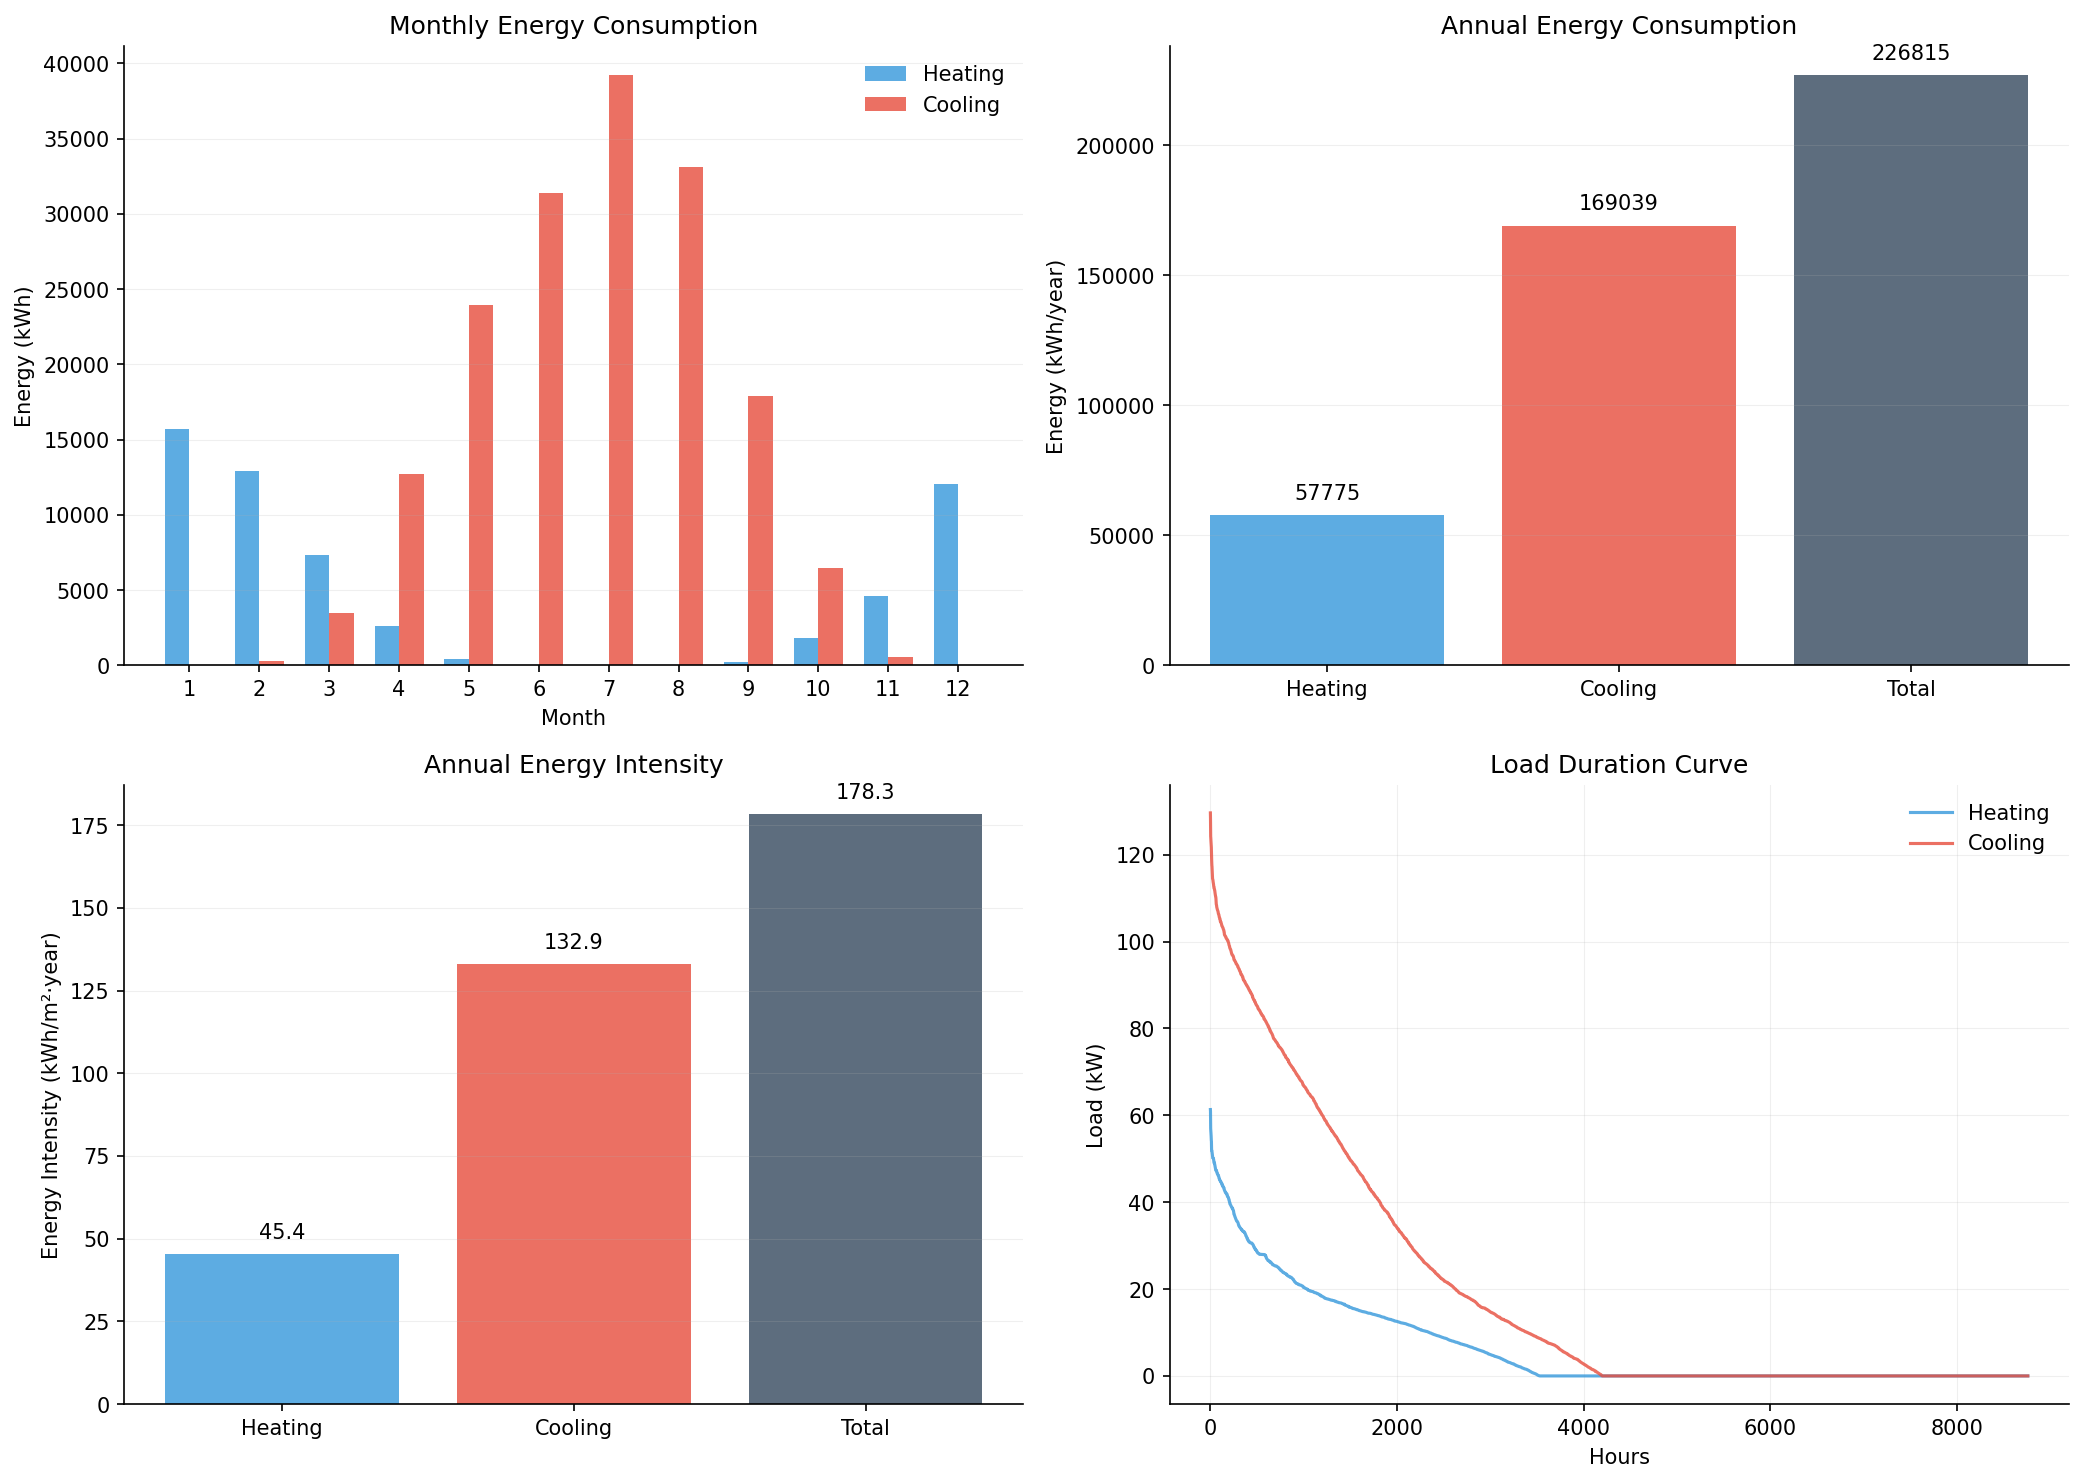
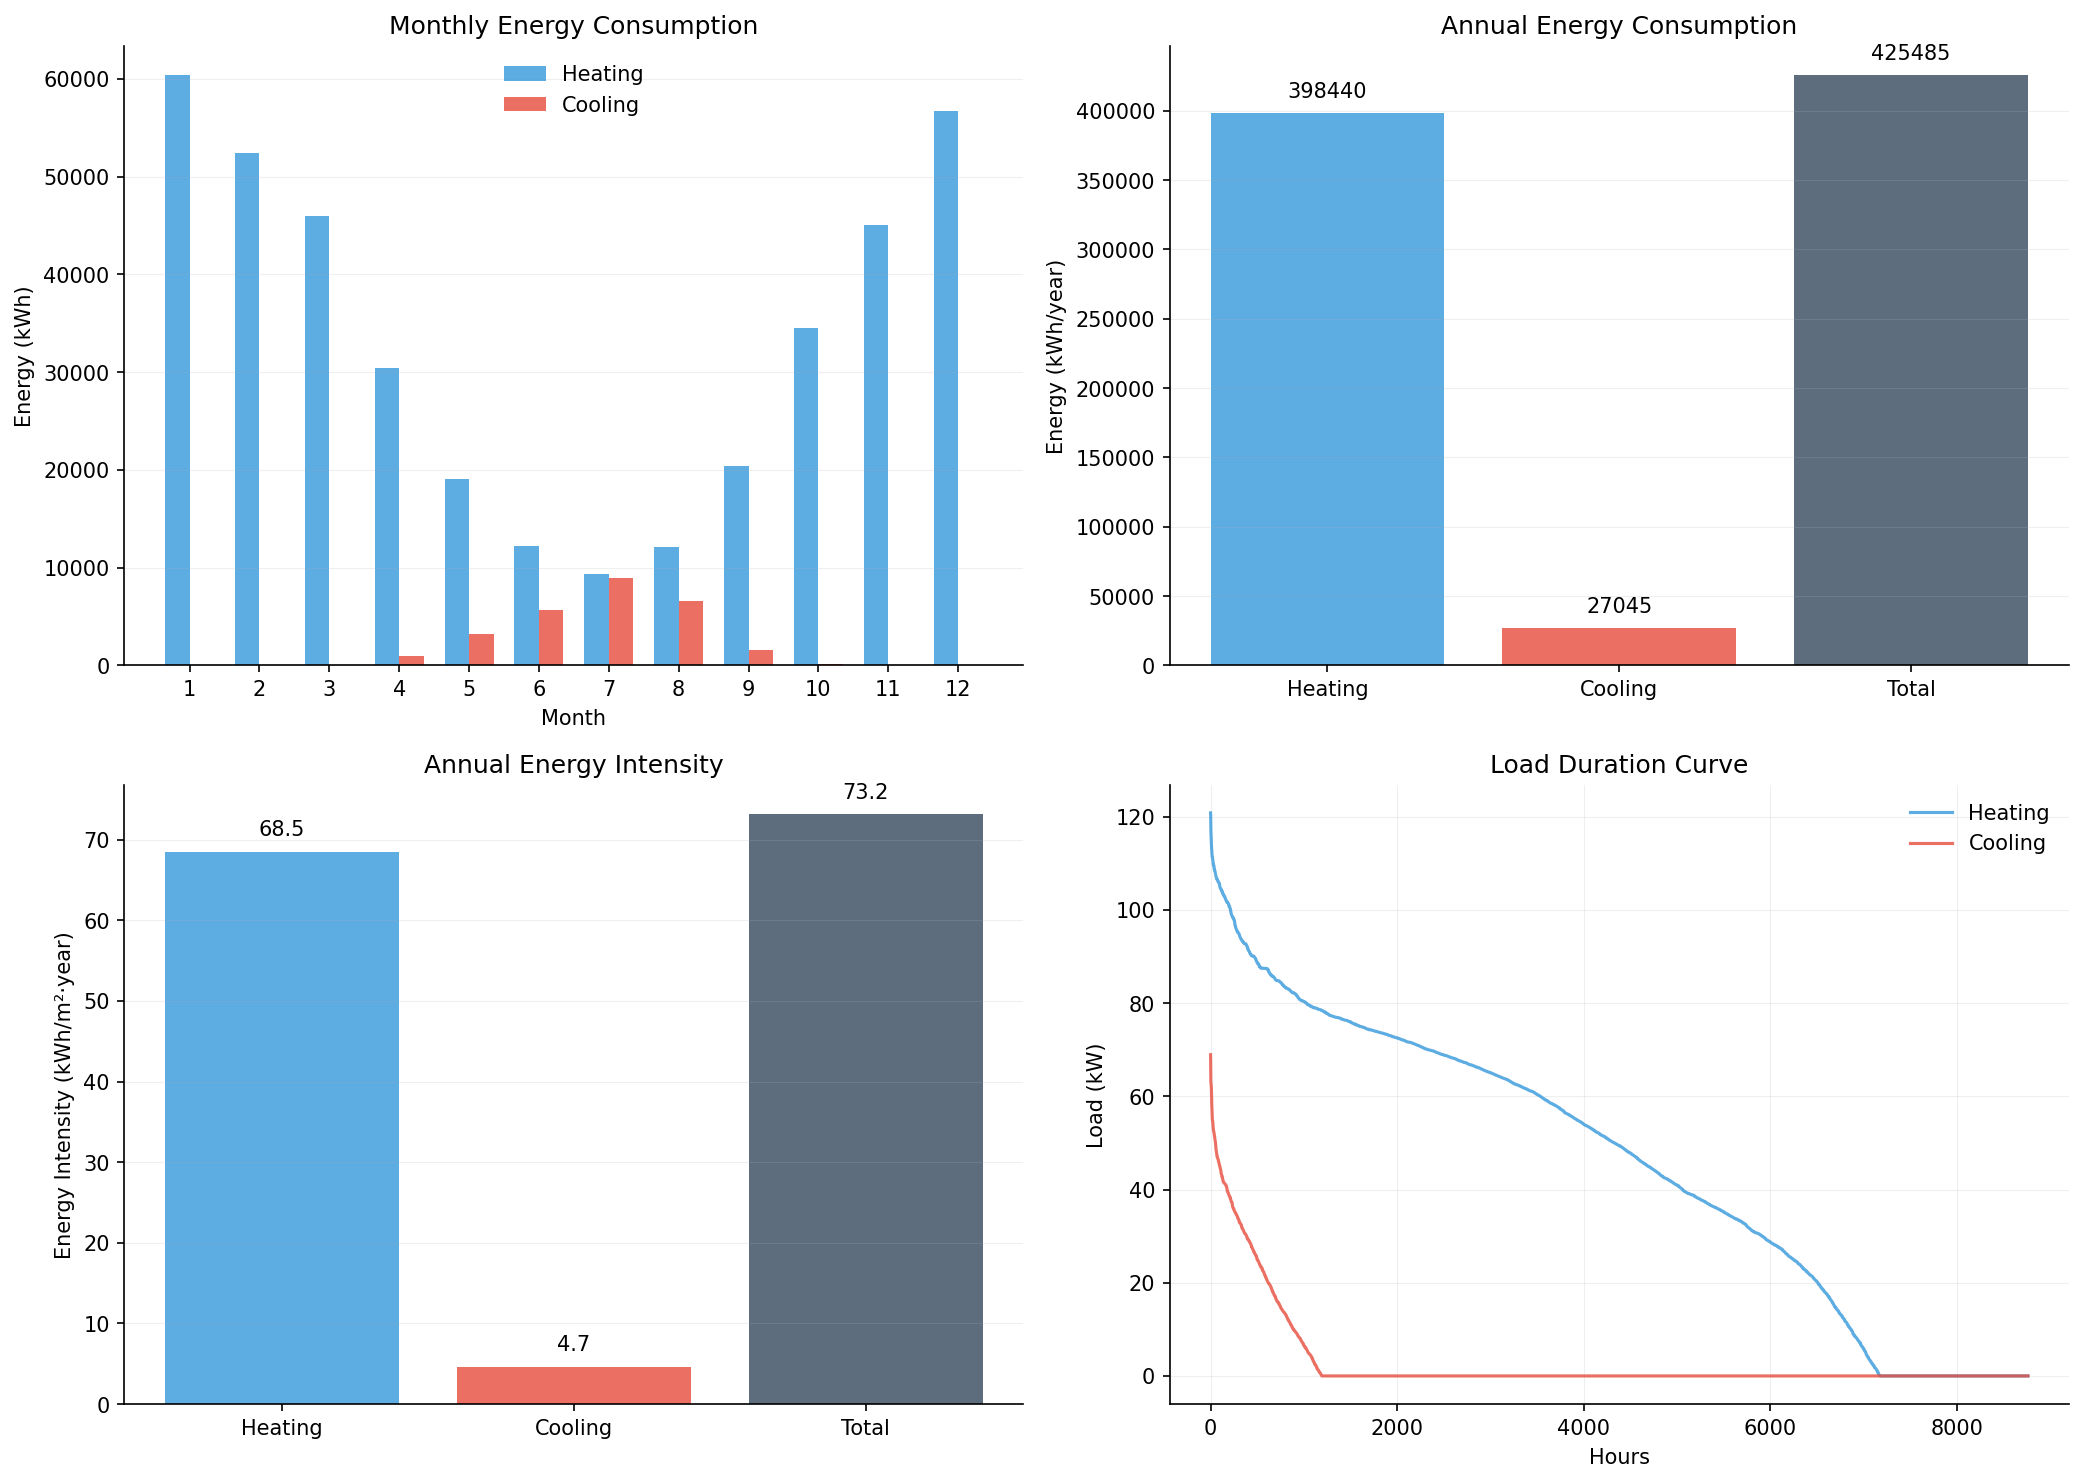
Refactor energy calculation to use total heated floor area (ATEMP) instead of floor area. Update comments for clarity and remove unnecessary kitchen schedule logic. Update annual energy plots.

diff --git a/main_annual.py b/main_annual.py
@@ -13,7 +13,7 @@ from weather import load_epw_weather
 import matplotlib.pyplot as plt
 
 
-def plot_annual_energy(results, floor_area):
+def plot_annual_energy(results):
     fig, axes = plt.subplots(2, 2, figsize=(14, 10))
 
     # Monthly energy consumption
@@ -63,9 +63,10 @@ def plot_annual_energy(results, floor_area):
                        ha='center', va='bottom', fontsize=10)
 
     # Energy intensity
-    heat_intensity = total_heat / floor_area
-    cool_intensity = total_cool / floor_area
-    total_intensity = total_energy / floor_area
+    from config import ATEMP
+    heat_intensity = total_heat / ATEMP
+    cool_intensity = total_cool / ATEMP
+    total_intensity = total_energy / ATEMP
 
     categories_int = ['Heating', 'Cooling', 'Total']
     values_int = [heat_intensity, cool_intensity, total_intensity]
@@ -201,19 +202,17 @@ def main():
 
     air = AirSide(V_zone_m3=BUILDING_VOLUME, Vdot_vent_m3s=VENT_FLOW,
                   eta_HRV=HRV_EFF, ACH_infiltration_h=INFILTRATION_ACH)
-    gains = InternalGains(Q_equip_kW=EQUIP_GAIN, Q_occ_kW=OCC_GAIN, Q_light_kW=LIGHT_GAIN)
 
-    # Kitchen schedule (average between heating and cooling)
-    daily_schedule = [False] * 24
-    for hour in [7, 8, 12, 13, 18, 19]:
-        daily_schedule[hour] = True
+    # NO internal gains for heating (conservative)
+    # This gives worst-case heating load without internal heat offsets
+    gains_none = None
 
-    # Expand to full year
-    num_days = len(weather) // 24
-    kitchen_schedule = pd.Series(daily_schedule * num_days + daily_schedule[:len(weather) % 24])
+    # No kitchen schedule needed (0 gains)
+    kitchen_schedule = pd.Series([False] * len(weather))
 
     print("Running annual simulation...")
-    results = run_hourly(weather, planes, air, T_HEAT, T_COOL, gains, KITCHEN_GAIN, kitchen_schedule)
+    print("(No internal gains - conservative heating calculation)")
+    results = run_hourly(weather, planes, air, T_HEAT, T_COOL, gains_none, 0.0, kitchen_schedule)
     print("Simulation complete!")
     print("")
 
@@ -223,10 +222,9 @@ def main():
     total_energy_kWh = total_heat_kWh + total_cool_kWh
 
     # Calculate energy intensity
-    floor_area = FLOOR_AREA
-    heat_intensity = total_heat_kWh / floor_area
-    cool_intensity = total_cool_kWh / floor_area
-    total_intensity = total_energy_kWh / floor_area
+    heat_intensity = total_heat_kWh / ATEMP
+    cool_intensity = total_cool_kWh / ATEMP
+    total_intensity = total_energy_kWh / ATEMP
 
     # Peak loads
     peak_heat_kW = results['Q_heat_W'].max() / 1000
@@ -252,7 +250,7 @@ def main():
     os.makedirs('plots', exist_ok=True)
     print("Generating annual energy plots...")
 
-    fig1 = plot_annual_energy(results, floor_area)
+    fig1 = plot_annual_energy(results)
     fig1.savefig('plots/annual_energy.png', dpi=150, bbox_inches='tight')
 
     fig2 = plot_load_breakdown(results)

diff --git a/config.py b/config.py
@@ -34,6 +34,9 @@ UG_WALL_U = 0.18
 UG_FLOOR_U = 0.34
 
 # Underground geometry
-FLOOR_AREA = 1272.0
+FLOOR_AREA = 1272.0  # Ground floor footprint for heat transfer calc
 PERIMETER = 207.0
 UG_WALL_HEIGHT = 2.0
+
+# Total building area
+ATEMP = 5816.0  # Total heated floor area (all floors)
